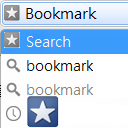
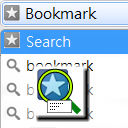
Version 1.2

Changed region(s): [[0.0312, 0.5, 0.75, 1.0], [0.0, 0.6875, 0.0312, 0.75]]

diff --git a/src/background.html b/src/background.html
@@ -1,30 +1,58 @@
 <html>
     <script>
+		var fullmatch;
+		
+        function nav2(url,tabbed){
+            if(tabbed){
+                chrome.tabs.create({url: url})
+            }else{
+                chrome.tabs.getSelected(null,
+                    function(tab) {
+                        chrome.tabs.update(tab.id, {url: url});
+                    }
+                );
+            }
+        }
         function nav(url){
             if(localStorage["tabbed"]){
                 chrome.tabs.create({url: url})
             }else{
                 chrome.tabs.getSelected(null,
-                        function(tab) {
-                            chrome.tabs.update(tab.id, {url: url});
-                        }
+                    function(tab) {
+                        chrome.tabs.update(tab.id, {url: url});
+                    }
                 );
             }
         }
+		
+		function escapeXML(str){
+			return str.replace(/&/g,"&amp;").replace(/"/g,"&quot;").replace(/'/g,"&apos;").replace(/</g,"&lt;").replace(/>/g,"&gt;");
+		}
+        
+        if(localStorage["version"]!="1.2"){
+            localStorage["version"]="1.2";
+            nav2("whatsnew.html",true);
+        }
+        
         chrome.omnibox.onInputChanged.addListener(
             function(text, suggest) {
-                if(text.substr(0,3).toLowerCase()=="go "&&(text.substr(3,7).toLowerCase()=="http://"||text.substr(3,8).toLowerCase()=="https://"||text.substr(3,6).toLowerCase()=="ftp://"||text.substr(3,7).toLowerCase()=="file://")){
-                    chrome.omnibox.setDefaultSuggestion({description: "Go to "+text.substr(3)});
-                    suggest([{content: "?"+text, description: "Search "+text+" in Bookmarks"}]);
+                if(text.substr(0,3).toLowerCase()=="go "&&(text.substr(3,7).toLowerCase()=="http://"||text.substr(3,8).toLowerCase()=="https://"||text.substr(3,6).toLowerCase()=="ftp://"||text.substr(3,7).toLowerCase()=="file://"||text.substr(3,11).toLowerCase()=="javascript:")){
+                    chrome.omnibox.setDefaultSuggestion({description: "Go to "+escapeXML(text.substr(3))});
+                    //suggest([{content: "?"+text, description: "Search "+text+" in Bookmarks"}]);
                     chrome.bookmarks.search(text,
                         function(results) {
                             var s=new Array();
+							s.push({content: "?"+text, description: "Search "+escapeXML(text)+" in Bookmarks"});
                             for(i in results){
-                                if(i>2) break;
-                                s.push({content: "go "+results[i].url, description: (results[i].title?results[i].title:results[i].url)});
+                                if(i>3) break;
+								if(results[i].title){
+									s.push({content: "go "+results[i].url, description: escapeXML(results[i].title)+"<dim> - </dim><url>"+escapeXML(results[i].url)+"</url>"});
+								}else{
+									s.push({content: "go "+results[i].url, description: "<url>"+escapeXML(results[i].url)+"</url>"});
+								}
                             }
                             suggest(s);
-                            console.log(s);
+                            //console.log(s);
                         }
                     );
                 }else{
@@ -33,11 +61,25 @@
                         function(results) {
                             var s=new Array();
                             for(i in results){
-                                if(i>3) break;
-                                s.push({content: "go "+results[i].url, description: (results[i].title?results[i].title:results[i].url)});
+                                if(i>4) break;
+								if(results[i].title){
+									s.push({content: "go "+results[i].url, description: escapeXML(results[i].title)+"<dim> - </dim><url>"+escapeXML(results[i].url)+"</url>"});
+								}else{
+									s.push({content: "go "+results[i].url, description: "<url>"+escapeXML(results[i].url)+"</url>"});
+								}
                             }
-                            suggest(s);
+							// compare if full match
                             console.log(s);
+							if(localStorage["matchname"]){
+								if(results[0]&&results[0].title&&results[0].title.toLowerCase()==text.toLowerCase()){
+									fullmatch=results[0];
+									chrome.omnibox.setDefaultSuggestion({description: "<dim>Go to </dim><match>"+escapeXML(results[0].title)+"</match><dim> - </dim><url>"+escapeXML(results[0].url)+"</url>"});
+									s[0]={content: "?"+text, description: "Search "+escapeXML(text)+" in Bookmarks"};
+								}else{
+									fullmatch=0;
+								}
+							}
+                            suggest(s);
                         }
                     );
                 }
@@ -49,7 +91,11 @@
         );
         chrome.omnibox.onInputEntered.addListener(
             function(text){
-                if(text.substr(0,3).toLowerCase()=="go "&&(text.substr(3,7).toLowerCase()=="http://"||text.substr(3,8).toLowerCase()=="https://"||text.substr(3,6).toLowerCase()=="ftp://"||text.substr(3,7).toLowerCase()=="file://")){
+				if(localStorage["matchname"]&&fullmatch){
+					nav(fullmatch.url);
+					fullmatch=0;
+				}
+                if(text.substr(0,3).toLowerCase()=="go "&&(text.substr(3,7).toLowerCase()=="http://"||text.substr(3,8).toLowerCase()=="https://"||text.substr(3,6).toLowerCase()=="ftp://"||text.substr(3,7).toLowerCase()=="file://"||text.substr(3,11).toLowerCase()=="javascript:")){
                     nav(text.substr(3));
                 }else if(text.substr(0,1)=="?"){
                     nav("chrome-extension://eemcgdkfndhakfknompkggombfjjjeno/main.html#q="+text.substr(1));

diff --git a/src/options.html b/src/options.html
@@ -3,6 +3,7 @@
 <script type="text/javascript">
 function save_options() {
     localStorage["tabbed"]=document.getElementById("tabbed").checked;
+    localStorage["matchname"]=document.getElementById("matchname").checked;
     var status = document.getElementById("status");
     status.innerHTML = "Options Saved.";
     setTimeout(function() {
@@ -11,14 +12,17 @@ function save_options() {
 }
 function restore_options() {
     document.getElementById("tabbed").checked=localStorage["tabbed"];
+    document.getElementById("matchname").checked=localStorage["matchname"];
 }
 
 </script>
 
 <body onload="restore_options()">
 <h1>Bookmark Search Extension - Options</h1>
-<label for="tabbed">Show search results and pages in new tab:</label><input type="checkbox" id="tabbed" onclick="save_options()" />
-<div id="status" style="background-color:yellow;color:red;"></div>
+<input type="checkbox" id="tabbed" onclick="save_options()" /><label for="tabbed">Show search results and pages in new tab</label><br />
+<input type="checkbox" id="matchname" onclick="save_options()" /><label for="matchname">Automatically selects full match on <b>name</b></label><br />
+<div id="status" style="background-color:yellow;color:red;"></div><br />
+<b>Please report if you found bugs!</b>
 <!--button onclick="save_options()">Save</button-->
 </body>
 </html>

diff --git a/src/whatsnew.html b/src/whatsnew.html
@@ -1,0 +1,23 @@
+<html>
+<head><title>Bookmark Search Extension - What's New</title></head>
+
+<body>
+<h1>Bookmark Search Extension - What's New</h1>
+I am sorry if this disturbs you.
+<h2>Version 1.2</h2>
+<ul>
+<li><b>Bookmark Search</b> can now automatically select the full match. (see <a href="options.html" target="_blank">Options</a>)</li>
+<li>Display is improved. It now shows both name and address.</li>
+<li>Some minor improvements.</li>
+<li>The icons are updated, although they are still...</li>
+</ul>
+<h2>Version 1.1</h2>
+<ul>
+<li>The search keyword has changed to "<b>bm</b>"!</li>
+</ul>
+<h2>Version 1.0</h2>
+<ul>
+<li>First release!</li>
+</ul>
+</body>
+</html>
